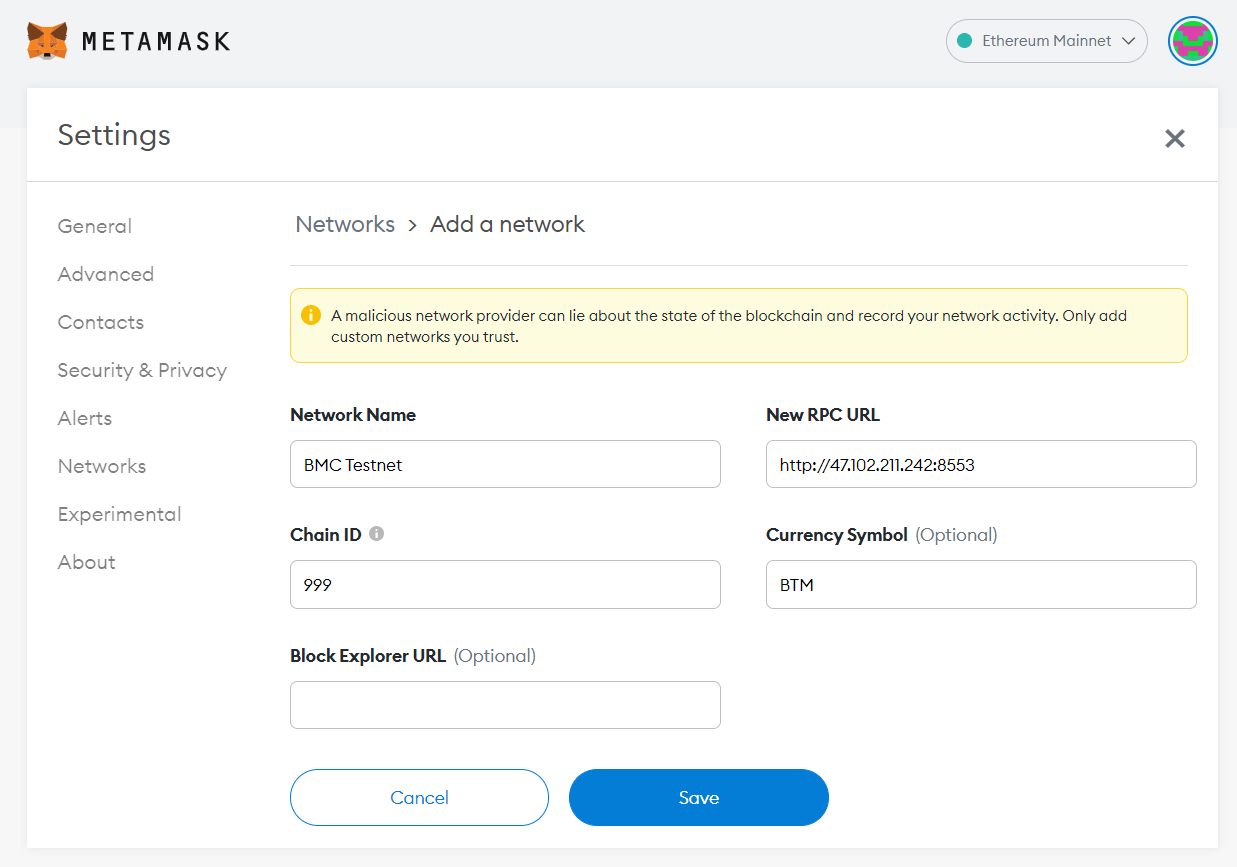
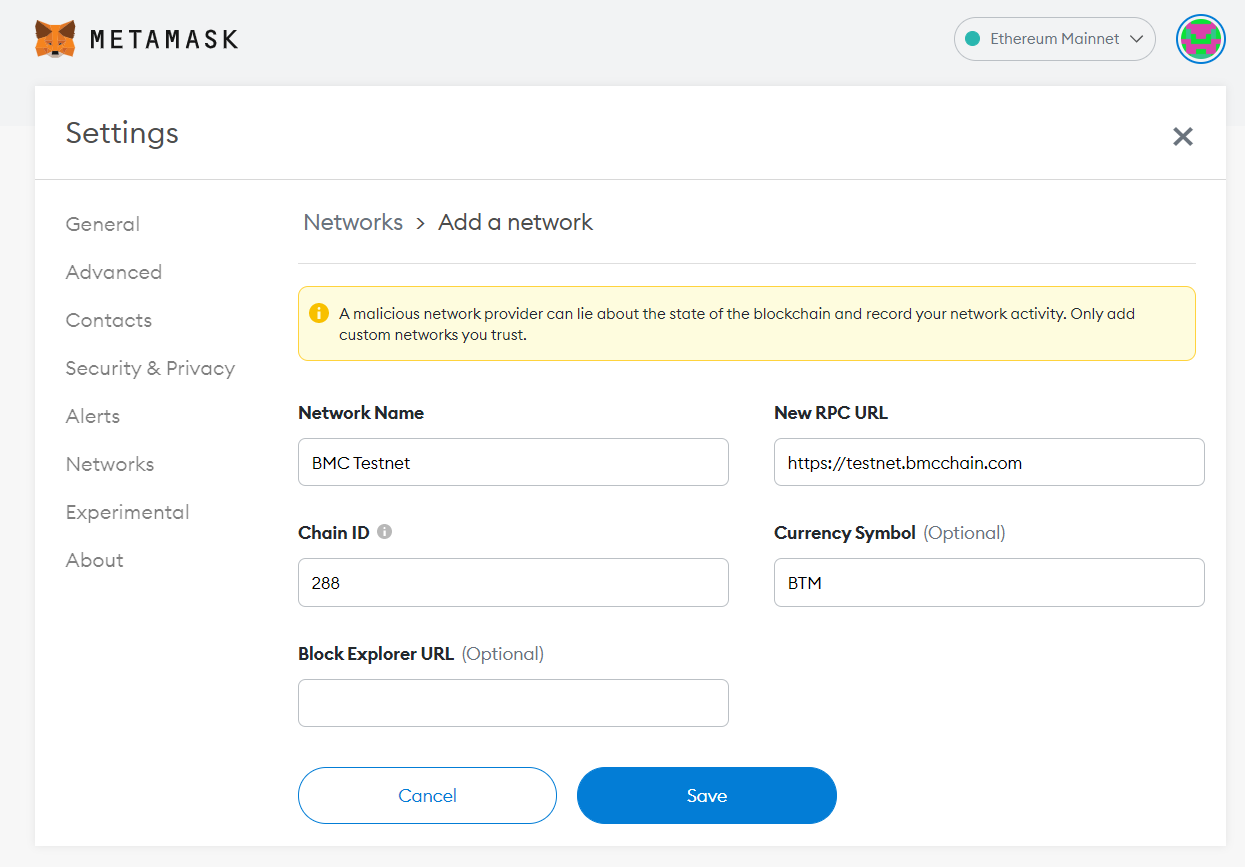
moify some

diff --git a/docs/guide/01_testnet_quick_start.md b/docs/guide/01_testnet_quick_start.md
@@ -11,7 +11,7 @@ we use metamask , and the introduction is as follow:
 ### 1. Config Metamask for BMC Testnet
 
 - NetWork Name: BMC Testnet
-- RPC URL:  [http://47.102.211.242:8553](http://47.102.211.242:8553)
+- RPC URL:  [https://testnet.bmcchain.com](https://testnet.bmcchain.com)
 - Chain ID: 288
 - Currency Symbol: BTM
 - Block Explorer URL: (Optional)

diff --git a/docs/guide/01_mainnet_quick_start.md b/docs/guide/01_mainnet_quick_start.md
@@ -1,7 +1,7 @@
 # Mainnet Quick Start
 
 - NetWork Name: BMC
-- RPC URL:  
+- RPC URL:  [https://mainnet.bmcchain.com](https://mainnet.bmcchain.com)
 - Chain ID: 188
 - Currency Symbol: BTM
 - Block Explorer URL: (Optional)
